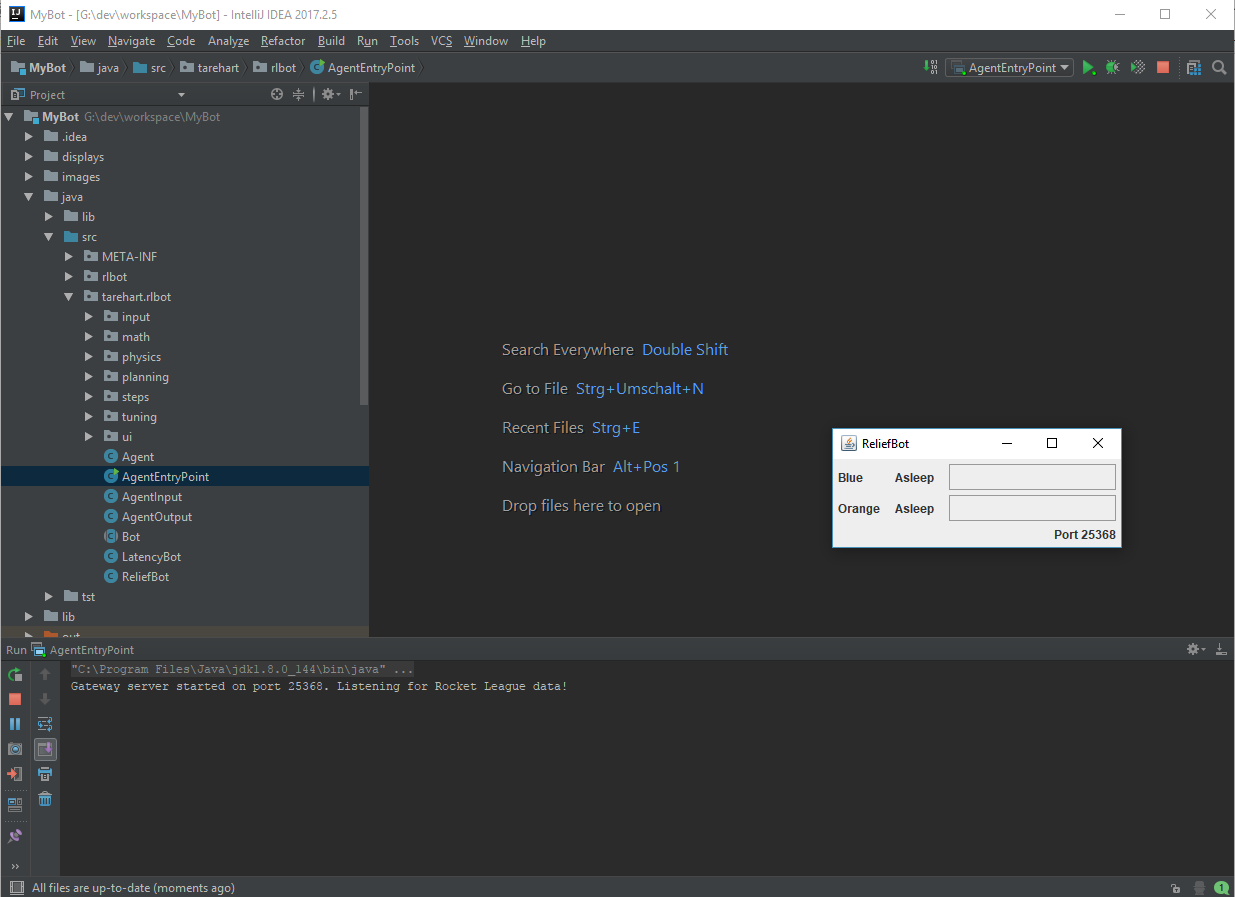
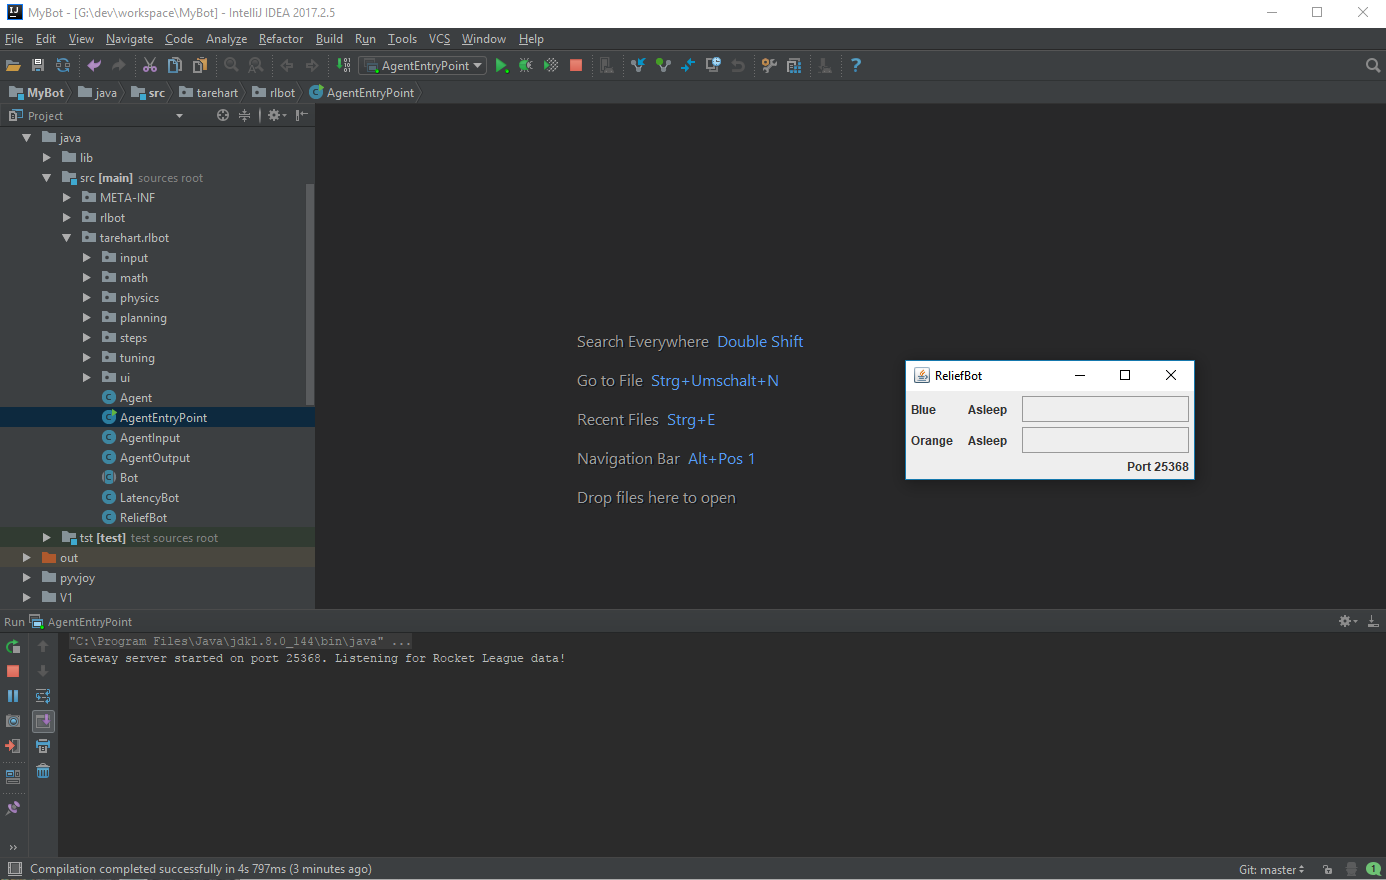
Update documentation to work with new gradle integration.

diff --git a/readme.md b/readme.md
@@ -1,7 +1,7 @@
 # Requirements
-- Basic RLBot Setup    
-- tarehart's ReliefBot Source (https://bitbucket.org/tarehart/reliefbot/overview)
+- Basic RLBot Setup (should take you 1-2 hours if you are completely new to this)
 - Py4J (pip install py4j)
+- tarehart's ReliefBot Source (https://bitbucket.org/tarehart/reliefbot/overview)
 - Java8
 - IntelliJ IDEA (https://www.jetbrains.com/idea/download)
 
@@ -9,11 +9,6 @@
 
 ## Basic RLBot Setup
 - Go to (https://github.com/drssoccer55/RLBot/wiki/Setup-Instructions) and complete the setup steps. Make sure everything is working correctly.
-
-## Checking out tarehart's ReliefBot SourceCode
-
-- Head over to (https://bitbucket.org/tarehart/reliefbot/overview) and get the latest version of the Source with a git client of your choice or load the zip-file containing the code.
-- Put everything in a folder you wanna work in (e.g. g:/dev/workspace/MyBot/)
 
 ## Py4J
 - Simple Python Package. Py4J enables Python programs running in a Python interpreter to dynamically access Java objects in a Java Virtual Machine.
@@ -23,10 +18,15 @@ pip install py4j
 ```
 - if your command-line is giving you an error that "pip" cannot be found you propably need to google how to install pip first
 
+## Checking out tarehart's ReliefBot SourceCode
+
+- Head over to (https://bitbucket.org/tarehart/reliefbot/overview) and get the latest version of the Source with a git client of your choice or load the zip-file containing the code.
+- Put everything in a folder you wanna work in (e.g. g:/dev/workspace/MyBot/)
+
 ## Java8
 - You need the Java JDK1.8.0_144 to successfully compile the ReliefBot Code.
 - Download it at http://www.oracle.com/technetwork/java/javase/downloads/jdk8-downloads-2133151.html  . Choose the correct version for your system.
-- Just proceed the installer with standard settings. Remember where the jdk is being installed to, we need that later.
+- Just proceed the installer with standard settings. Remember where the jdk is being installed to, we might need that later.
 Note: Earlier versions of the JDK have been tested but didn't work. You can try using an older version if you like. 
 
 ## IntelliJ IDEA
@@ -38,8 +38,20 @@ Note: Command-Line compiling or using Android Studio won't work without extra wo
 - Follow the install instructions. You don't need to select anything special here.
 - After the installation is done you can start IntelliJ.
 - When you start IntelliJ for the first time on your machine you will be prompted to customize the IDE for your needs.
-    - You could press "Skip All and Set Defaults" or do some tweaking. However be sure not to disable plugins that are required. For example the JUnit package in the "Test Tools" category are required by the ReliefBot project.
+    - You could press "Skip All and Set Defaults" or do some tweaking. However be sure not to disable plugins that are required.
 - You will now see the "Welcome to IntelliJ IDEA" window.
+
+## Preparing the source with gradle
+- In a terminal window go to the folder where you checked out the source code to. (e.g. g:/dev/workspace/MyBot/)
+- Now execute (Windows)
+    ```
+    gradlew.bat idea
+    ```
+    or (Unix based systems)
+    ```
+    gradlew idea
+    ```
+- The command line will now prepare the project for you to work with.
 
 # Setting up the project
 
@@ -47,31 +59,30 @@ Note: Command-Line compiling or using Android Studio won't work without extra wo
 - Browse the folder where you checked out the complete ReliefBot repository to. (e.g. g:/dev/workspace/MyBot/)
 - Press Ok.
 - You should now see a simple Project window with a Folder called "MyBot" on the left. That is the main-module of the project.
-- Right click on the "MyBot" folder and select "Open Module Settings"
- ![alt text](./images/basic_proj.png "Basic project")
-- In the "Project"-Panel we need to select the correct SDK, project language level and output folder.
-    - Project SDK: Use the dropdown to select the JDK1.8.0_144 which we installed earlier. If the dropdown is empty Use the "New..." Button, select "JDK" and browse to the installation location of the JDK.
-    - Project language level: Select the level "8", anything else will cause errors.
-    - Project compiler output: That is the folder where IntelliJ will compile your classes to when running the project.
+- On the bottom right there is a notification popping up with the title "Unlinked Gradle project?". If this is already hidden there is a green speech bubble in the bottom right corner where you can open up all notifications.
+- Press on the "Import Gradle project" text-link.
+ ![alt text](./images/start_gradle.png "Import gradle")
+- In the upcoming window we can basically use the default settings.
+    - In the Gradle JVM slot you should be able to select the JDK1.8.0_144 we downloaded earlier.
+    - Press Ok.
+- Give IntelliJ a bit time to process everything. There might be a popup which you can accept.
+- Just to make sure everything worked right click on the "MyBot" Module in the project panel to the left and open the Module Settings.
+ ![alt text](./images/open_module.png "Open Module Settings")
+- Select the Project tab on the left and make sure that:
+    - the project SDK is set to JDK1.8.0_144 
+        - If it does not appear in the dropdown, use the "New..." Button, select "JDK" and browse to the installation location of the JDK.
+    - the project language level is set to "8"
+    - the project compiler output is set: That is the folder where IntelliJ will compile your classes to when running the project.
         - You can just create a new subfolder in the project-directory and call it "out" or "build".
         - Select the path to this folder via the prompt. (e.g. G:\dev\workspace\MyBot\out)
-        
-        ![alt text](./images/proj_pane.png "Project panel")
-- Go to the Modules panel and select "Sources".
-- You will find the project directory structure there. Select the "java/src" folder and press the "Mark as: 'Sources'" Button.
-![alt text](./images/module_pane.png "Module panel")
-- Now switch over to the "Libraries" Panel.
-- Press the Green "+" Button on top to add a new Library-folder.
-- Select "Java".
-- Browse to the "lib" folder in the project directory select it and press "Ok". Be sure not to select the "java/lib" folder instead, as it does not contains all needed libraries.
-- Confirm the upcoming popup.
-![alt text](./images/lib_pane.png "Library panel")
+![alt text](./images/proj_pane.png "Project panel")
+
 - Now Apply the changes we made and go back into the main-project view.
 - On the left side open up the "java/src/tarhart/rlbot/" folder.
 - RightClick on The "AgentEntryPoint" Class and select "Run AgentEntryPoint.main()"
 - If everything is set up correctly you should now see a java-window opened.
 ![alt text](./images/first_run.png "First run")
-- Notice the "AgentEntryPoint" Configuration in the dropdown on the upper right.
+- Notice the "AgentEntryPoint" Configuration in a dropdown in the toolbar on the top.
 - You can select that dropdown and press "Save 'AgentEntryPoint' Configuration". Now you can always start it from there instead of rightclicking the javaclass.
 - Your project is now configured correctly and can be used to create awesome bots.
 
@@ -79,9 +90,3 @@ Note: Command-Line compiling or using Android Studio won't work without extra wo
 - Just keep following the steps at (https://github.com/drssoccer55/RLBot/wiki/Setup-Instructions) but make sure run the "runner.py" provided in the ReliefBot repository.
 - After starting the runner.py just "Run" the AgentEntryPoint Configuration in IntelliJ.
 - The runner.py commandLine should now print "Connection to Java successful!" and your IntelliJ states "Gateway server started on port 'xxx'. Listening for Rocket League data!"
-
-# Troubleshooting
-- Compiler can not find the main-class "AgentEntryPoint" when running
-    - Check if you have set an output directory in the "Project" panel of the Module or in the Modules/Paths Tab
-- NullReferenceException at AgentEntryPoint(line24), StatusSummary
-    - This is due to missing dependencies which IntelliJ provides. If you run into this issue you propably dont use IntelliJ.
